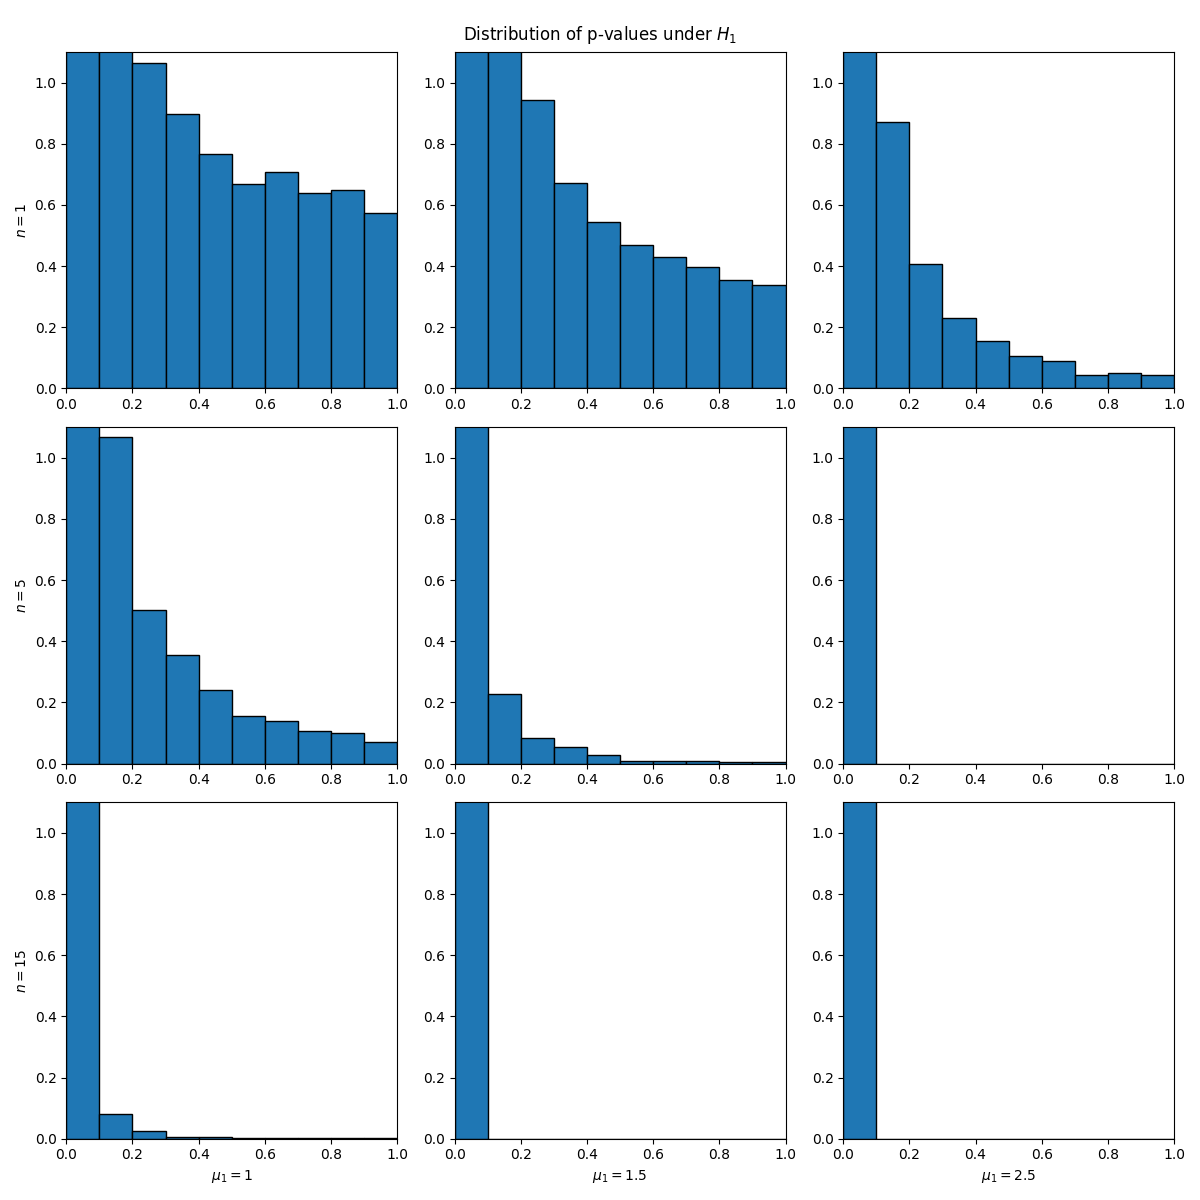
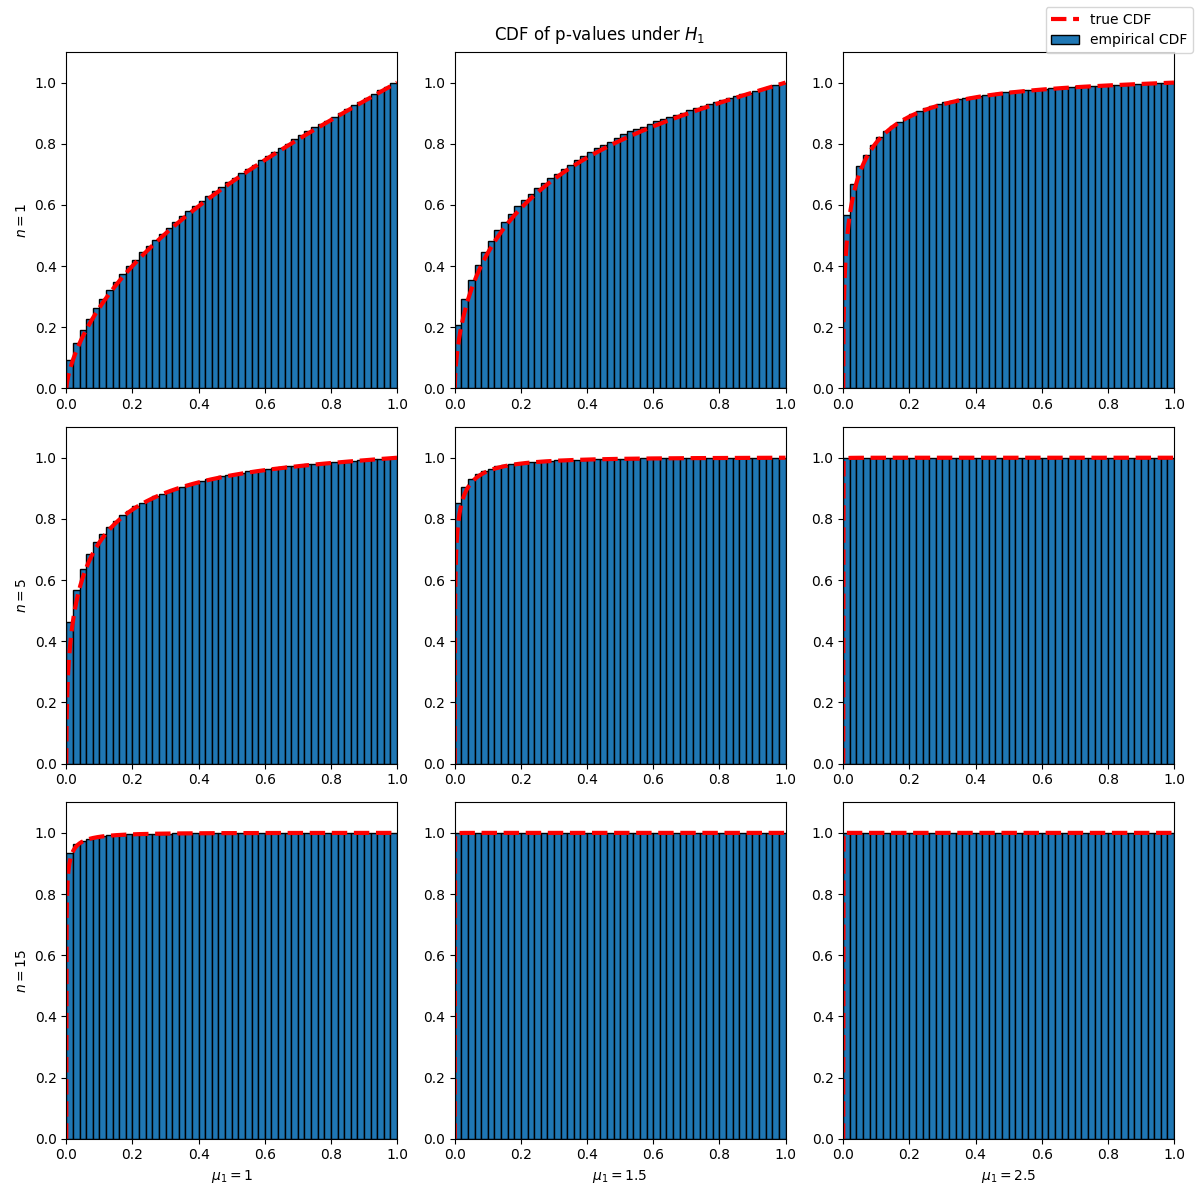
Plot true and empirical CDF of pvalues under H1

diff --git a/main.py b/main.py
@@ -1,5 +1,5 @@
 from src.hypotheses import z_test
-from src.utils import get_pvalues_z_test, get_t_statistics_z_test, FDP, FWE
+from src.utils import get_pvalues_z_test, get_t_statistics_z_test, cdf_pvalues_z_test_h1, FDP, FWE
 
 import os
 
@@ -35,20 +35,25 @@ if not os.path.isfile(figure_2):
     mu0 = 0
     mu1 = [1, 1.5, 2.5]
     n = [1, 5, 15]
+    interval = np.linspace(0, 1, 1001)
+
     fig, ax = plt.subplots(3, 3, figsize=(12, 12))
     for i, n_ in enumerate(n):
         for j, mu1_ in enumerate(mu1):
+            true_dist = cdf_pvalues_z_test_h1(interval, mu0, mu1_, n_)
             mu1s = np.ones(m1) * mu1_
             t_statistics = get_t_statistics_z_test(m1, n_, 1, mu1s, mu0)
             pvalues = get_pvalues_z_test(t_statistics).squeeze()
-            ax[i][j].hist(pvalues, bins=10, range=(0, 1), density=True, edgecolor='black')
+            ax[i][j].plot(interval, true_dist, color='red', label='true CDF', linewidth=3, linestyle='dashed')
+            ax[i][j].hist(pvalues, bins=50, range=(0, 1), density=True, cumulative=True, edgecolor='black', label='empirical CDF')
             ax[i][j].set_xlim(0, 1)
             ax[i][j].set_ylim(0, 1.1)
             if j == 0:
                 ax[i][j].set_ylabel(fr'$n = {n_}$')
             if i == 2:
                 ax[i][j].set_xlabel(fr'$\mu_1 = {mu1_}$')
-    fig.suptitle('Distribution of p-values under $H_1$')
+    fig.legend(*ax[0][0].get_legend_handles_labels())
+    fig.suptitle('CDF of p-values under $H_1$')
     plt.tight_layout()
     plt.savefig(figure_2)
 

diff --git a/src/utils.py b/src/utils.py
@@ -14,13 +14,21 @@ def get_pvalues_z_test(t_statistics):
     return 2 * norm.cdf(-abs(t_statistics))
 
 
+def cdf_pvalues_z_test_h1(pvalues, mu0, mu1, n=1):
+    inv_pvalues = norm.ppf(pvalues / 2)
+    mean_h1 = np.sqrt(n) * (mu1 - mu0)
+    return 1 - norm.cdf(-inv_pvalues - mean_h1) + norm.cdf(inv_pvalues - mean_h1)
+
+
 def FWE(true, pred):
+    "Empirical family-wise error"
     false_reject = pred.copy()
     false_reject *= (1 - true)
     return np.any(false_reject, axis=-1).astype(int)
 
 
 def FDP(true, pred):
+    "Empirical family-wise error"
     total_reject = pred.sum(axis=-1)
     total_reject[total_reject == 0] = 1
     false_reject = pred.copy()
